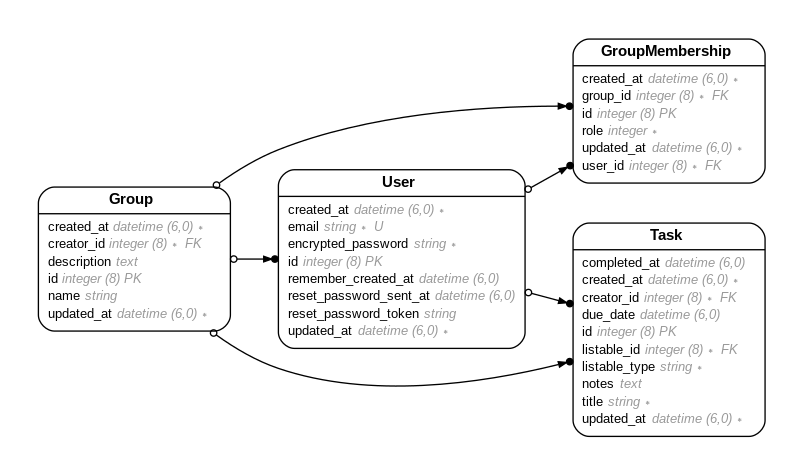
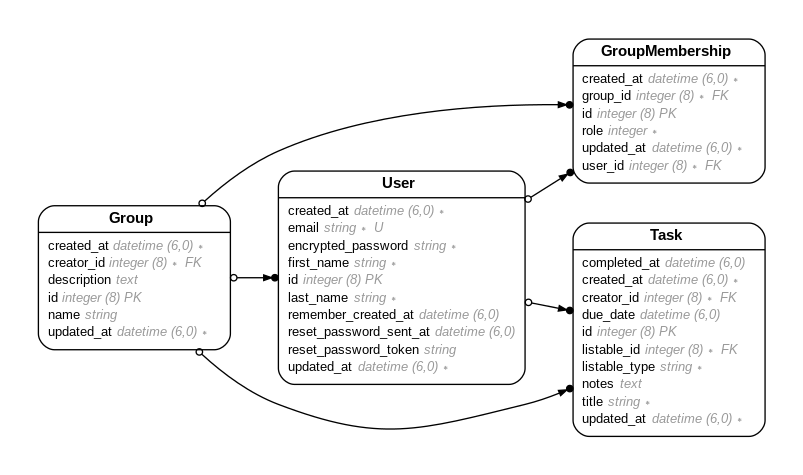
changed example data and made homepage

diff --git a/db/schema.rb b/db/schema.rb
@@ -10,7 +10,7 @@
 #
 # It's strongly recommended that you check this file into your version control system.
 
-ActiveRecord::Schema[7.1].define(version: 2025_05_20_210521) do
+ActiveRecord::Schema[7.1].define(version: 2025_05_20_223803) do
   # These are extensions that must be enabled in order to support this database
   enable_extension "plpgsql"
 
@@ -55,6 +55,8 @@ ActiveRecord::Schema[7.1].define(version: 2025_05_20_210521) do
     t.datetime "remember_created_at"
     t.datetime "created_at", null: false
     t.datetime "updated_at", null: false
+    t.string "first_name"
+    t.string "last_name"
     t.index ["email"], name: "index_users_on_email", unique: true
     t.index ["reset_password_token"], name: "index_users_on_reset_password_token", unique: true
   end

diff --git a/app/models/user.rb b/app/models/user.rb
@@ -5,6 +5,8 @@
 #  id                     :bigint           not null, primary key
 #  email                  :string           default(""), not null
 #  encrypted_password     :string           default(""), not null
+#  first_name             :string
+#  last_name              :string
 #  remember_created_at    :datetime
 #  reset_password_sent_at :datetime
 #  reset_password_token   :string
@@ -29,4 +31,7 @@ class User < ApplicationRecord
 
   has_many :created_tasks, class_name: "Task", foreign_key: :creator_id, dependent: :nullify, inverse_of: :creator
   has_many :tasks, as: :listable, dependent: :destroy, inverse_of: :listable
+
+  validates :first_name, presence: true
+  validates :last_name, presence: true
 end

diff --git a/app/controllers/tasks_controller.rb b/app/controllers/tasks_controller.rb
@@ -2,6 +2,15 @@ class TasksController < ApplicationController
   before_action :authenticate_user!
 
   def index
+    # Personal tasks: tasks where listable is the current user
+    @personal_tasks = Task.where(listable: current_user).order(:due_date)
+
+    # Groups the user belongs to
+    @groups = current_user.groups_joined.order(:name)
+
+    # Group tasks: tasks where listable is a group the user is a member of
+    @group_tasks = Task.where(listable: @groups).includes(listable: :creator).order(:due_date)
+
     render template: "tasks/index"
   end
 end

diff --git a/app/controllers/application_controller.rb b/app/controllers/application_controller.rb
@@ -1,4 +1,13 @@
 class ApplicationController < ActionController::Base
   skip_forgery_protection
   before_action :authenticate_user!
+
+  before_action :configure_permitted_parameters, if: :devise_controller?
+
+  protected
+
+  def configure_permitted_parameters
+    devise_parameter_sanitizer.permit(:sign_up, keys: [:first_name, :last_name])
+    devise_parameter_sanitizer.permit(:account_update, keys: [:first_name, :last_name])
+  end
 end

diff --git a/db/migrate/20250520223803_add_first_and_last_name_to_users.rb b/db/migrate/20250520223803_add_first_and_last_name_to_users.rb
@@ -1,0 +1,6 @@
+class AddFirstAndLastNameToUsers < ActiveRecord::Migration[7.1]
+  def change
+    add_column :users, :first_name, :string
+    add_column :users, :last_name, :string
+  end
+end
